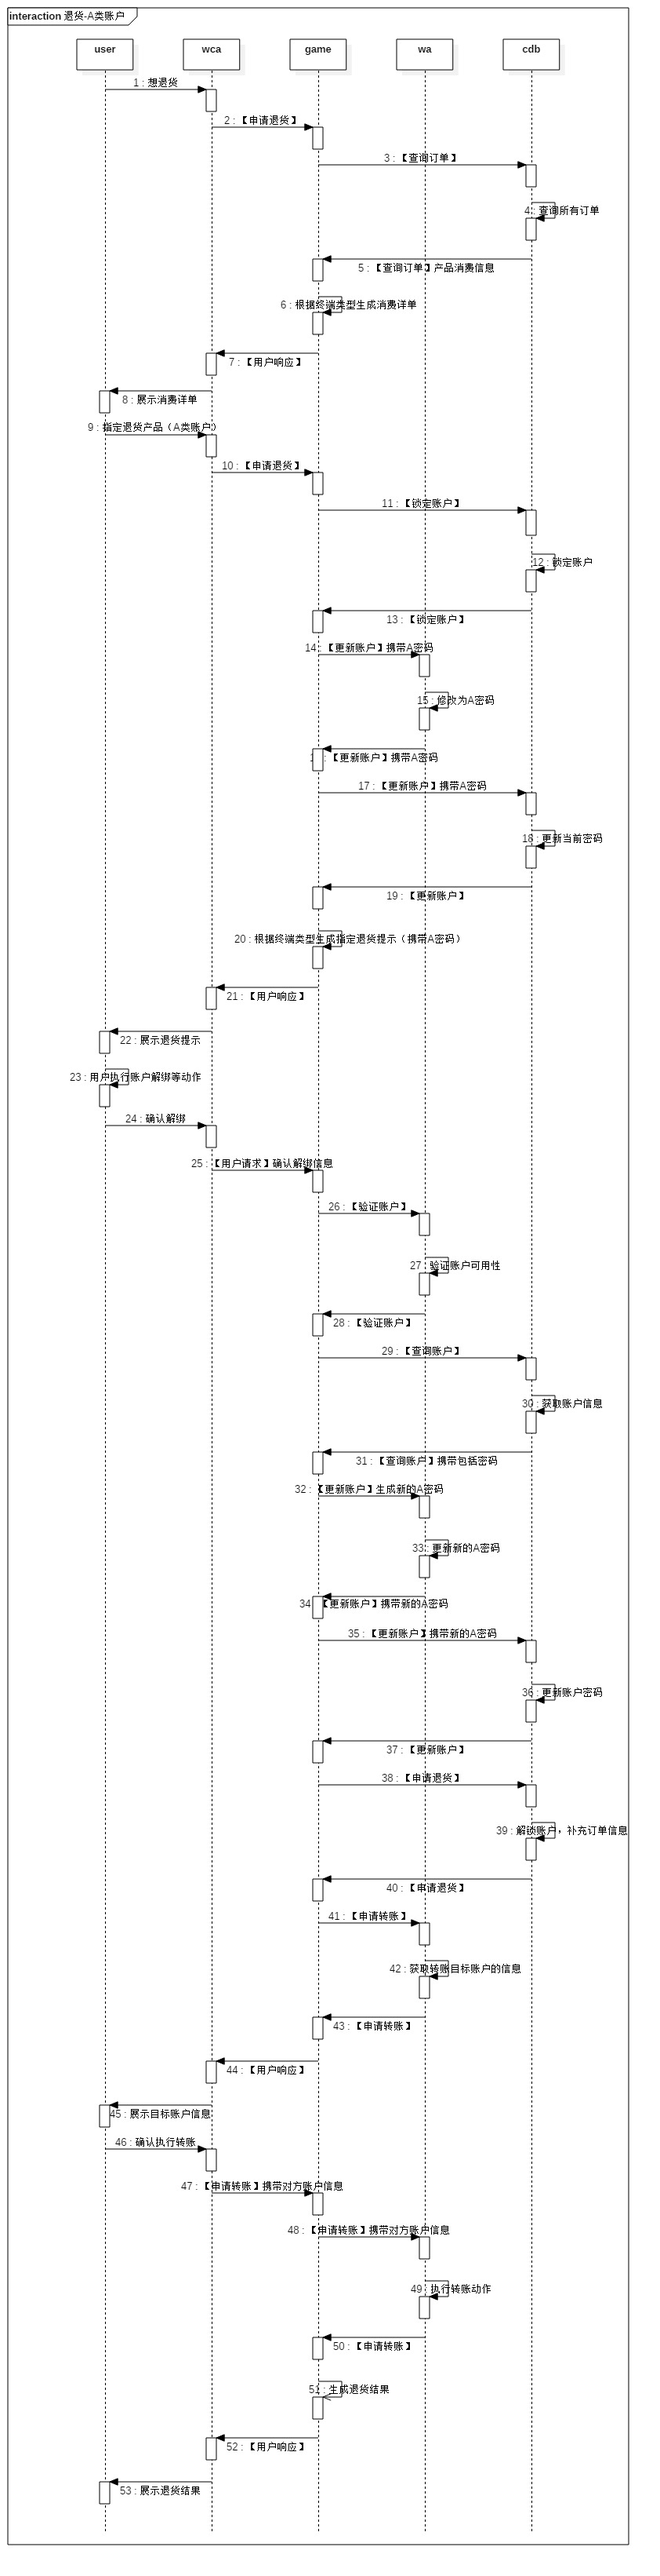
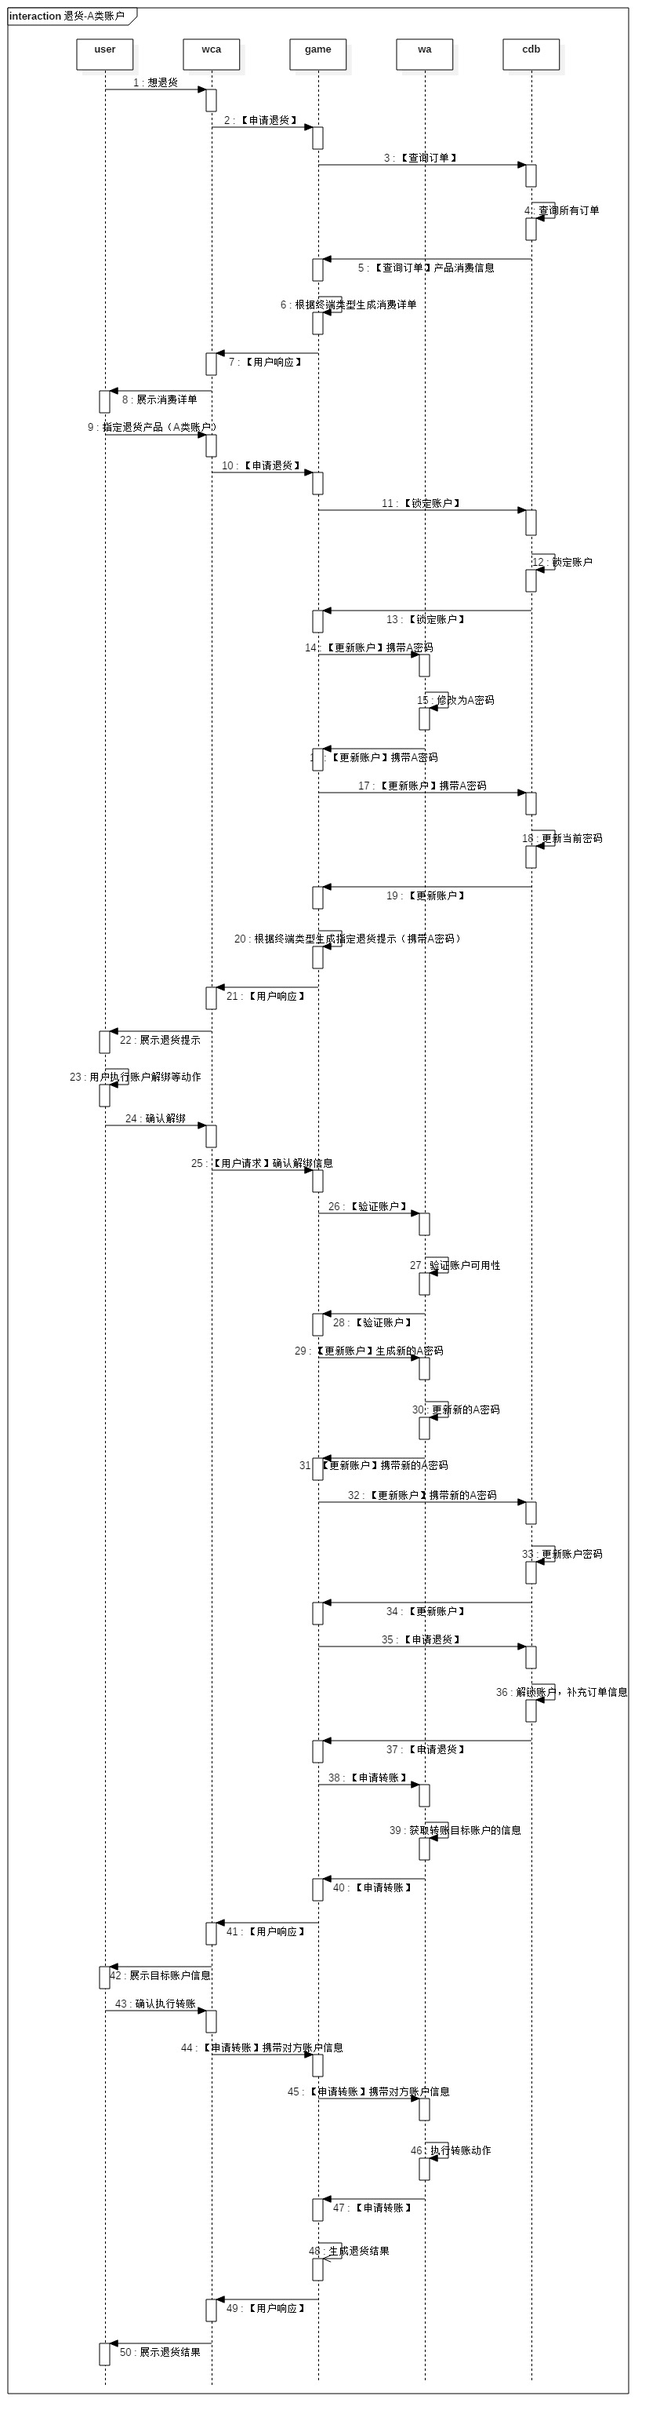
业务代码

diff --git a/src/ski/ski-game/src/main/java/com/ski/game/session/SessionTaskVerifyAccountFromWA.java b/src/ski/ski-game/src/main/java/com/ski/game/session/SessionTaskVerifyAccountFromWA.java
@@ -1,0 +1,52 @@
+package com.ski.game.session;
+
+import java.util.Map;
+
+import org.apache.log4j.Logger;
+
+import com.ski.common.SkiCommon;
+
+import fomjar.server.FjMessageWrapper;
+import fomjar.server.FjServerToolkit;
+import fomjar.server.msg.FjDscpMessage;
+import fomjar.server.session.FjSessionContext;
+import fomjar.server.session.FjSessionPath;
+import fomjar.server.session.FjSessionTask;
+import net.sf.json.JSONObject;
+
+public class SessionTaskVerifyAccountFromWA implements FjSessionTask {
+    
+    private static final Logger logger = Logger.getLogger(SessionTaskVerifyAccountFromWA.class);
+
+    @Override
+    public boolean onSession(FjSessionPath path, FjMessageWrapper wrapper) {
+        FjSessionContext context = path.context();
+        FjDscpMessage msg = (FjDscpMessage) wrapper.message();
+        if (!msg.fs().startsWith("wa")) {
+            logger.error("invalid message, not come from wa: " + msg);
+            return false;
+        }
+        
+        @SuppressWarnings("unchecked")
+        Map<String, String> account = (Map<String, String>) context.get("account");
+        String pass_new = generateNewPass();
+        account.put("pass.new", pass_new);
+        JSONObject args2wa = new JSONObject();
+        args2wa.put("user", account.get("user"));
+        args2wa.put("pass.old", account.get("pass.current"));
+        args2wa.put("pass.new", account.get("pass.new"));
+        FjDscpMessage msg2wa = new FjDscpMessage();
+        msg2wa.json().put("fs",   context.server());
+        msg2wa.json().put("ts",   "wa");
+        msg2wa.json().put("sid",  msg.sid());
+        msg2wa.json().put("inst", SkiCommon.ISIS.INST_ECOM_VERIFY_ACCOUNT);
+        msg2wa.json().put("args", args2wa);
+        FjServerToolkit.getSender(context.server()).send(msg2wa);
+        return true;
+    }
+    
+    private static String generateNewPass() {
+        return String.valueOf(Math.abs(Long.toHexString(System.nanoTime()).hashCode()));
+    }
+    
+}

diff --git a/src/ski/ski-stub/src/main/java/com/ski/stub/UiSender.java b/src/ski/ski-stub/src/main/java/com/ski/stub/UiSender.java
@@ -1,8 +1,6 @@
 package com.ski.stub;
 
 import java.awt.BorderLayout;
-import java.awt.event.ActionEvent;
-import java.awt.event.ActionListener;
 
 import javax.swing.BorderFactory;
 import javax.swing.JButton;
@@ -39,11 +37,8 @@ public class UiSender extends JFrame {
                         new JScrollPane(jta_output = new JTextArea())),
                 BorderLayout.CENTER);
         getContentPane().add(jbt_send = new JButton("SEND"), BorderLayout.SOUTH);
-        jbt_send.addActionListener(new ActionListener() {
-            @Override
-            public void actionPerformed(ActionEvent e) {
-                sender.send(FjServerToolkit.createMessage(jta_input.getText()));
-            }
+        jbt_send.addActionListener((e)->{
+            sender.send(FjServerToolkit.createMessage(jta_input.getText()));
         });
         ((JComponent) jta_input.getParent().getParent()).setBorder(BorderFactory.createTitledBorder("INPUT"));
         ((JComponent) jta_output.getParent().getParent()).setBorder(BorderFactory.createTitledBorder("OUTPUT"));

diff --git a/src/ski/ski-game/src/main/java/com/ski/game/session/SessionTaskUserRequestFromWCA.java b/src/ski/ski-game/src/main/java/com/ski/game/session/SessionTaskUserRequestFromWCA.java
@@ -31,8 +31,8 @@ public class SessionTaskUserRequestFromWCA implements FjSessionTask {
         switch (context.getInteger("business.type")) {
         case SkiCommon.ISIS.INST_ECOM_APPLY_RETURN:
             switch (content.toLowerCase()) {
-            case "notuse":
-                processEnsureNotuse(context);
+            case "da":
+                processEnsureDeactive(context);
                 break;
             default:
                 logger.error("unrecognized user request: " + content);
@@ -46,7 +46,7 @@ public class SessionTaskUserRequestFromWCA implements FjSessionTask {
         return true;
     }
     
-    private static void processEnsureNotuse(FjSessionContext context) {
+    private static void processEnsureDeactive(FjSessionContext context) {
         @SuppressWarnings("unchecked")
         Map<String, String> account = (Map<String, String>) context.get("account");
         JSONObject args2wa = new JSONObject();

diff --git a/src/ski/ski-game/src/main/java/com/ski/game/session/SessionTaskUpdateAccountFromWA.java b/src/ski/ski-game/src/main/java/com/ski/game/session/SessionTaskUpdateAccountFromWA.java
@@ -32,7 +32,7 @@ public class SessionTaskUpdateAccountFromWA implements FjSessionTask {
         Map<String, String> account = (Map<String, String>) context.get("account");
         JSONObject args2cdb = new JSONObject();
         args2cdb.put("user", account.get("user"));
-        args2cdb.put("pass.current", account.get("pass.a"));
+        args2cdb.put("pass", account.get("pass.a"));
         FjDscpMessage msg2cdb = new FjDscpMessage();
         msg2cdb.json().put("fs",   server);
         msg2cdb.json().put("ts",   "cdb");

diff --git a/src/fomjar/fomjar-server/src/main/java/fomjar/server/session/FjSessionGraph.java b/src/fomjar/fomjar-server/src/main/java/fomjar/server/session/FjSessionGraph.java
@@ -56,7 +56,7 @@ public class FjSessionGraph {
         FjSessionPath path = paths.get(msg.sid());
         FjSessionNode curr = null;
         // match old
-        if (null != path) curr = path.getCurrent().getNext(msg.inst());
+        if (null != path) curr = path.getLast().getNext(msg.inst());
         // match new
         else curr = getHeadNode(msg.inst());
         // not match

diff --git a/src/fomjar/fomjar-server/src/main/java/fomjar/server/session/FjSessionPath.java b/src/fomjar/fomjar-server/src/main/java/fomjar/server/session/FjSessionPath.java
@@ -34,8 +34,6 @@ public class FjSessionPath {
         return nodes.getLast();
     }
     
-    public FjSessionNode getCurrent() {return getLast();}
-    
     public FjSessionNode get(int index) {
         if (null == nodes || nodes.isEmpty()) return null;
         return nodes.get(index);
